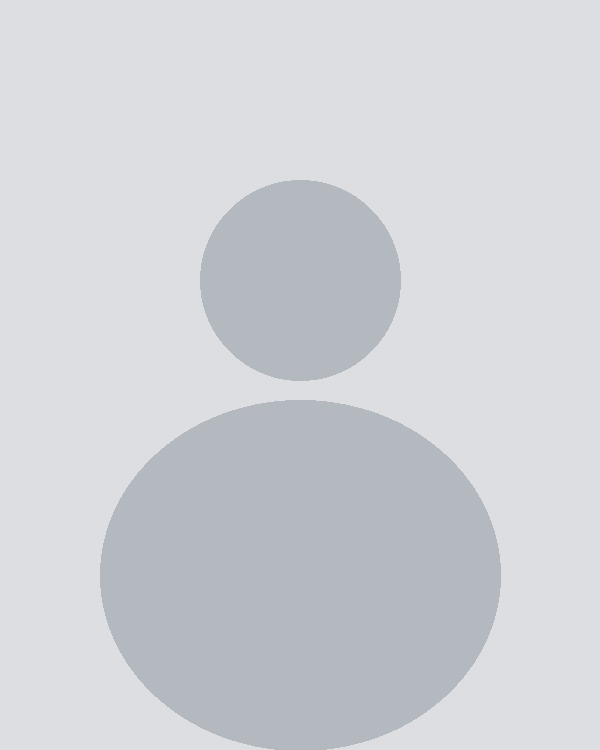
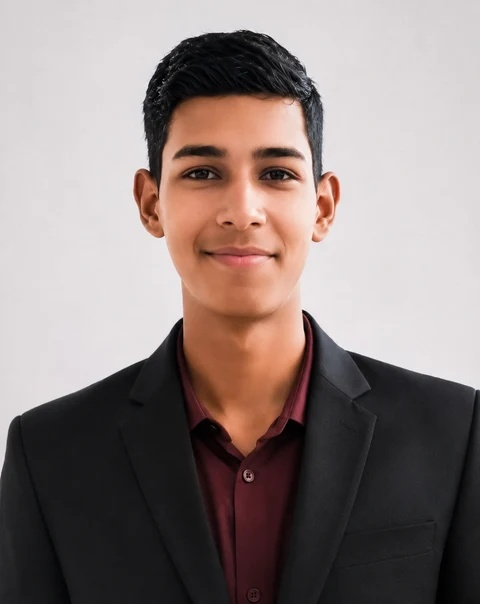
feat: add homepage with initiatives, testimonials, and events section

diff --git a/app/page.tsx b/app/page.tsx
@@ -19,7 +19,6 @@ import {
   ShieldCheck,
 } from "lucide-react";
 import { useApp } from "@/context/AppContext";
-import MemberCarousel from "@/components/MemberCarousel";
 
 export default function HomePage() {
   const { lang, openDonateModal } = useApp();
@@ -460,18 +459,6 @@ export default function HomePage() {
               </button>
             </div>
           </div>
-        </div>
-      </section>
-
-      {/* DEVOTEE COMMUNITY / OUR ACTIVE MEMBERS CAROUSEL */}
-      <section className="section-py bg-[#FFF9F2] border-t border-[#E7D8C8]">
-        <div className="page-container max-w-5xl">
-          <div className="text-center max-w-2xl mx-auto section-header space-y-2 mb-8">
-            <p className="text-xs font-bold uppercase tracking-widest text-[#B8893E]">DEVOTEE COMMUNITY</p>
-            <h2 className="font-editorial text-3xl sm:text-4xl font-bold text-[#2B201A]">Our Active Members</h2>
-          </div>
-
-          <MemberCarousel />
         </div>
       </section>
 
